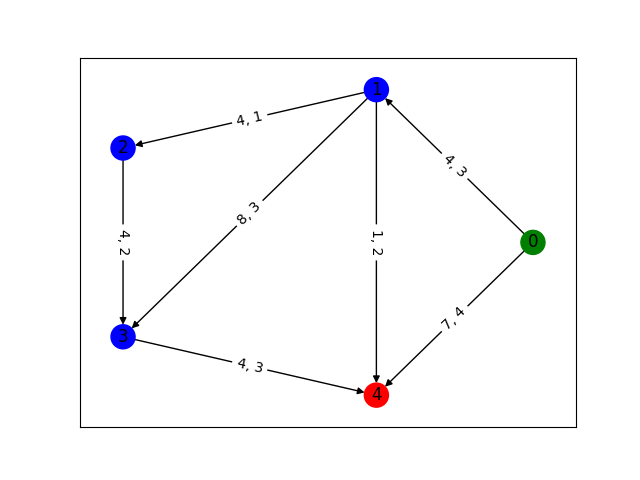
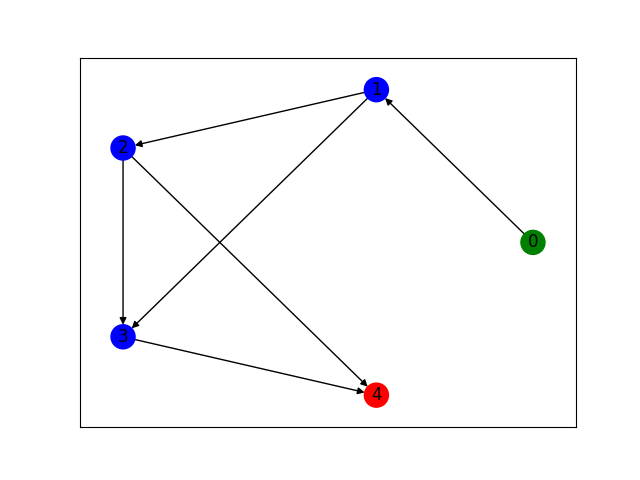
More testing for presentation, added show_minimum_output functionality

diff --git a/src/GraphModeling/models/Graph.py b/src/GraphModeling/models/Graph.py
@@ -34,7 +34,7 @@ class Graph:
         self._initialize_networkx_graph()
 
         
-    def print_graph(self, picture_name: str = "", edge_labels: Dict[Tuple[int, int], str] | None = None, suppress_text_output: bool = False) -> None:
+    def print_graph(self, picture_name: str = "", edge_labels: Dict[Tuple[int, int], str] | None = None, show_minimal_output: bool = False) -> None:
         """
         Prints the graph using the networkx graph representation and pyplot.
 
@@ -43,7 +43,7 @@ class Graph:
             edge_labels (Dict[Tuple[int, int], str] | None, optional): The dictionary of edges to labels. Defaults to None.
             suppress_text_output (bool): Supresses print statements and edge labels from being printed on the graph. Defaults to False
         """
-        if(not suppress_text_output):
+        if(not show_minimal_output):
             print("Nodes on Graph:")
             print(f"|    {self.networkx_graph.nodes()}")
             print("Edges of Graph:")
@@ -51,9 +51,10 @@ class Graph:
         
         #TODO: Alter size of nodes and lines with size of graph
         networkx.draw_networkx(self.networkx_graph, 
-            pos = networkx.circular_layout(self.networkx_graph), node_color = self.get_color_map(len(self.networkx_graph)))
+            pos = networkx.circular_layout(self.networkx_graph), node_color = self.get_color_map(len(self.networkx_graph)),
+            with_labels = not show_minimal_output, node_size=100 if show_minimal_output else 300, arrows = not show_minimal_output)
         
-        if edge_labels and not suppress_text_output:
+        if edge_labels and not show_minimal_output:
             networkx.draw_networkx_edge_labels(self.networkx_graph, edge_labels = edge_labels, pos = networkx.circular_layout(self.networkx_graph))
 
         if picture_name != "":

diff --git a/src/GraphModeling/tests/ArbitraryGraphTest.py b/src/GraphModeling/tests/ArbitraryGraphTest.py
@@ -10,14 +10,16 @@ from ..models.WCGraph import WCGraph
 import networkx
 
 def main():
-    print(WCGraph.get_random_weight_cost(5,5,3, std_cost=3))
-    for i in range(1,6):
-        graph = WCGraph.get_arbitrary_graph(5,5,3,std_weight=2)
-        print(f"Paths of the graph {i}")
-        print_paths(graph.get_simple_paths())
-        print(f"Nodes in the graph: {WCGraph.get_nodes(graph.edges)}")
-        # graph.print_graph()
-        graph.print_graph(picture_name = f"resources/ArbitraryGraphTestResults/arb5graph_{i}")
+    # for i in range(1,6):
+    graph = get_arbitrary_graph(6,5,3,std_weight=2)
+    graph.print_graph(picture_name = f"resources/ArbitraryGraphTestResults/arb6graph_spiral", show_minimal_output=False, DELETE_ME=True)
+    graph.print_graph(picture_name = f"resources/ArbitraryGraphTestResults/arb6graph", show_minimal_output=False)
+    graph.print_graph(picture_name = f"resources/ArbitraryGraphTestResults/arb6graph_minout",show_minimal_output=True)
+        # print(f"Paths of the graph {i}")
+        # print_paths(graph.get_simple_paths())
+        # print(f"Nodes in the graph: {WCGraph.get_nodes(graph.edges)}")
+        # # graph.print_graph()
+        # graph.print_graph(picture_name = f"resources/ArbitraryGraphTestResults/arb5graph_{i}", suppress_text_output=True)
     
 
 def get_random_weight_cost(mean_weight: int, mean_cost: int, std_weight:int=1, std_cost:int=1):

diff --git a/src/GraphModeling/models/WCGraph.py b/src/GraphModeling/models/WCGraph.py
@@ -153,7 +153,7 @@ class WCGraph(Graph):
 
         return (total_weight, total_cost)
 
-    def print_graph(self, picture_name: str = "", suppress_text_output: bool = False) -> None:
+    def print_graph(self, picture_name: str = "", show_minimal_output: bool = False) -> None:
         """
         Prints the graph with (weight, cost) labels for each edge
 
@@ -166,7 +166,7 @@ class WCGraph(Graph):
         for edge, constraints in self.wc_edges.items():
             edge_labels[edge] = f"{constraints[0]}, {constraints[1]}"
 
-        super(WCGraph, self).print_graph(picture_name, edge_labels, suppress_text_output)
+        super(WCGraph, self).print_graph(picture_name, edge_labels, show_minimal_output)
 
     def _generate_weight_cost_matricies(self):
         """
